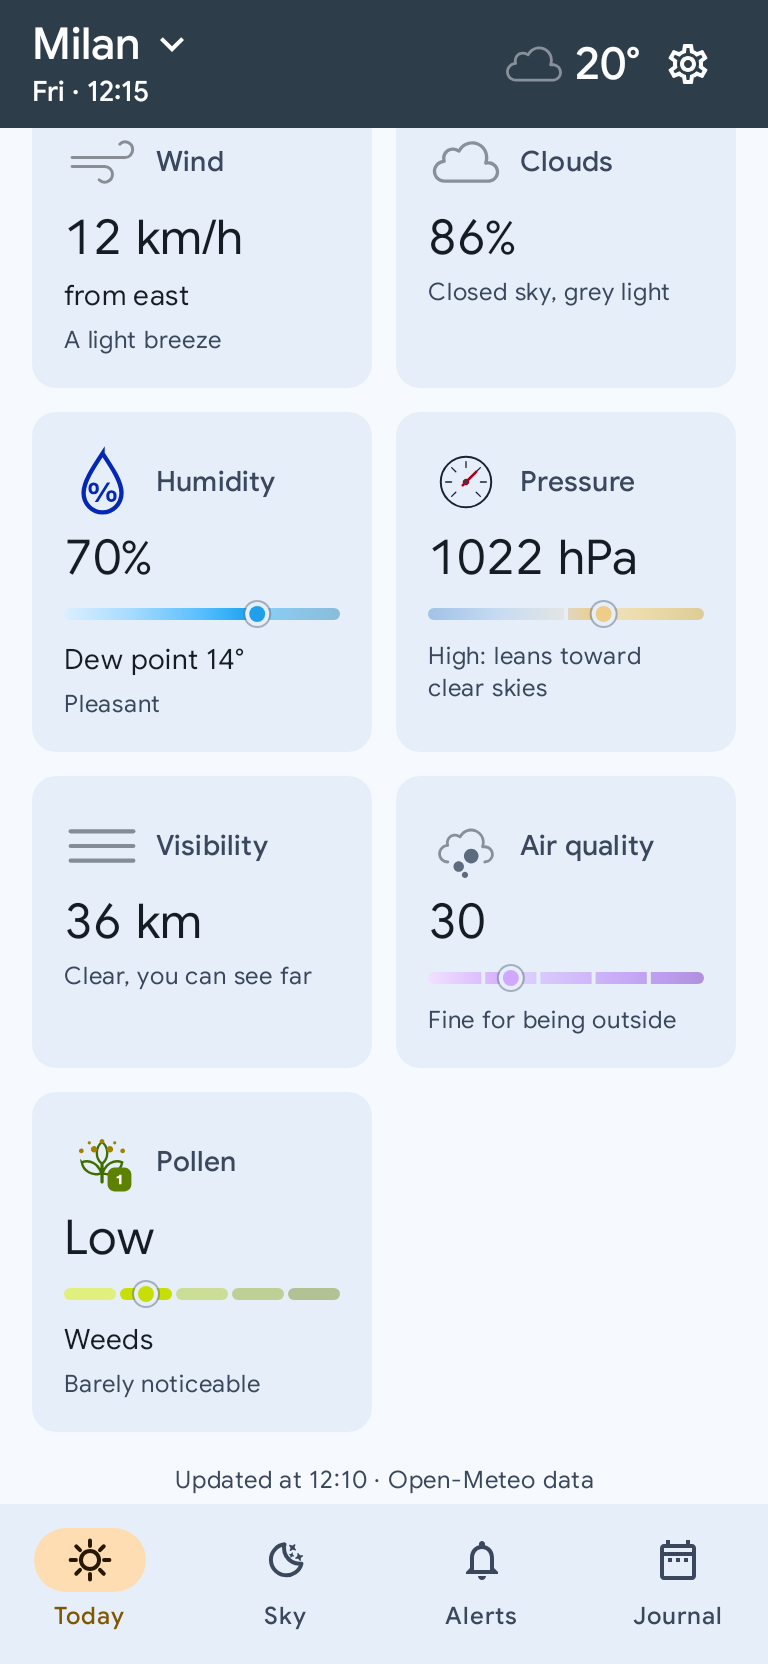
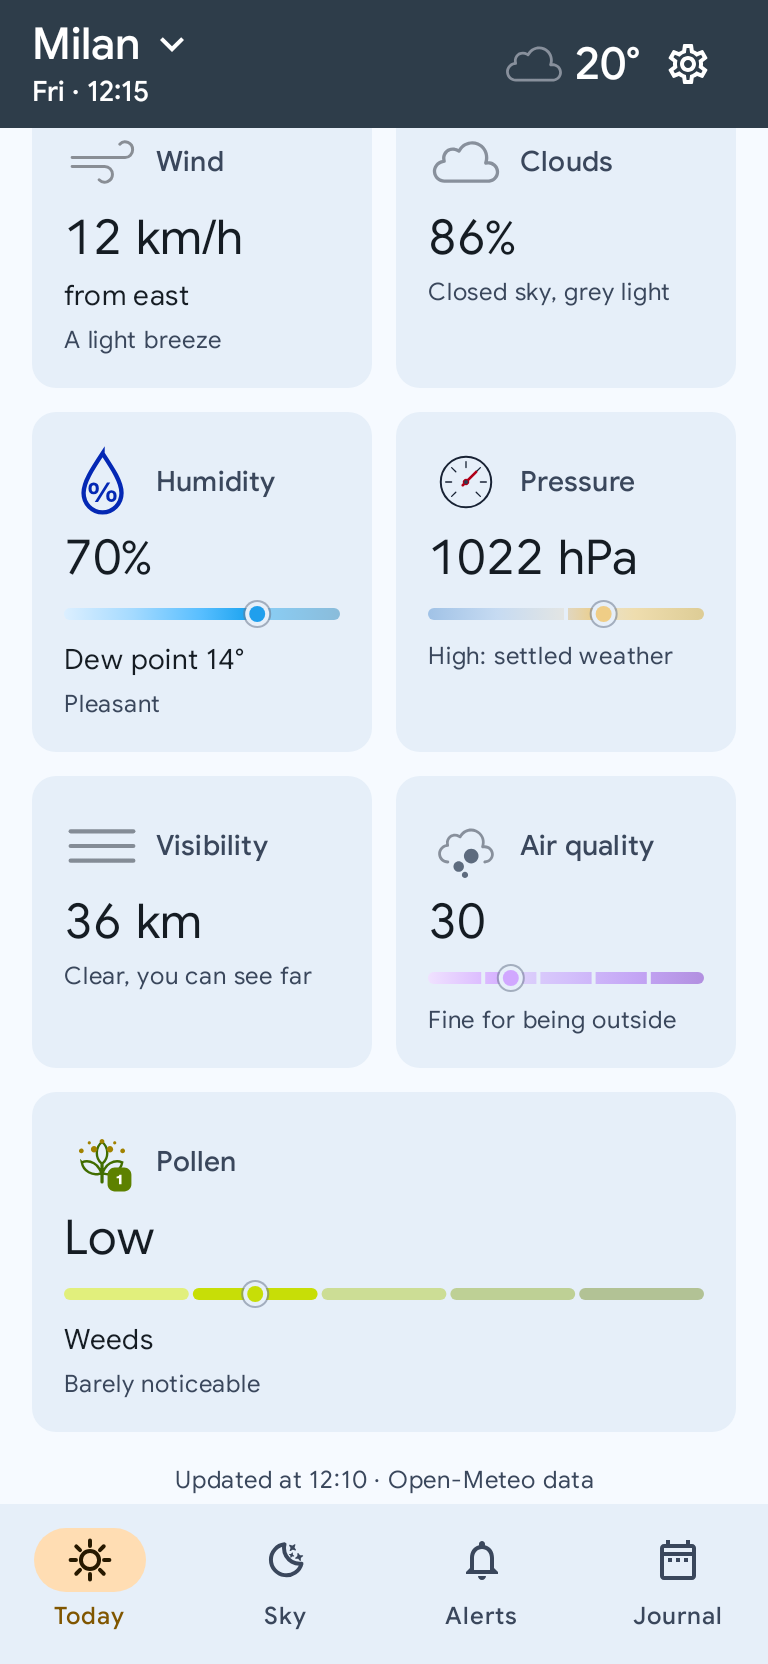
Today: pressure as a tendency, no orphan tile, no empty band
Points 7 and 8 of the review of the Today screen.

- The pressure tile reads the barometer's way: the hour we are in
  against three hours on, steady under 1.6 hPa, quick from 3.6, with
  the change as its note; a steady barometer keeps its reading's
  meaning, and «High» now says settled, not clear, which an overcast
  anticyclone contradicted.
- An odd last detail tile takes the whole row instead of sitting
  beside an empty half.
- The first title on Today's paper adds no top margin: the sheet's lip
  and the list's gap already stood the hours 53dp below the sky.
- Guide, DESIGN, PLANNING, CHANGELOG; today-now and today-details
  regenerated.

Claude-Session: https://claude.ai/code/session_01PZBB3MnXk3HDK1abFqMvrz

Changed region(s): [[0.1562, 0.75, 0.9062, 0.7812], [0.6562, 0.375, 0.875, 0.4375], [0.5625, 0.4062, 0.625, 0.4375]]

diff --git a/app/src/main/kotlin/com/callbackdev/chiaro/ui/today/TodayScreen.kt b/app/src/main/kotlin/com/callbackdev/chiaro/ui/today/TodayScreen.kt
@@ -928,7 +928,20 @@ private fun ContentState(
                 item { GuideCard(onOpen = onOpenGuide, onDismiss = onDismissGuideCard) }
             }
 
-            item { SectionTitle(stringResource(R.string.section_next_hours)) }
+            // The first title on the paper (review of 12 ott 2026): the sheet's own 24dp lip
+            // and the list's 12dp gap are already above it, and its usual 12 more made a
+            // 53dp band of empty paper between the sky and the hours, measured on the
+            // README's Milan — the hours VISION §4.4 wants above the fold, pushed down by
+            // nothing. With a chip, a banner or the guide card in between, it keeps the 12
+            // it needs to stand apart from them.
+            val opensThePaper = content.error == null && !content.isStale &&
+                content.warnings == null && guideCardVisible != true
+            item {
+                SectionTitle(
+                    stringResource(R.string.section_next_hours),
+                    top = if (opensThePaper) 0.dp else 12.dp
+                )
+            }
             item { NextHours(content, units, is24h, timeFmt, locale) }
 
             if (content.timeline.isNotEmpty()) {
@@ -1057,11 +1070,11 @@ private fun DataFooter(content: TodayUiState.Content, timeFmt: DateTimeFormatter
  * to on the screens that have no list spacing.
  */
 @Composable
-private fun SectionTitle(text: String) {
+private fun SectionTitle(text: String, top: Dp = 12.dp) {
     Text(
         text = text,
         style = MaterialTheme.typography.titleMedium,
-        modifier = Modifier.padding(start = 16.dp, top = 12.dp)
+        modifier = Modifier.padding(start = 16.dp, top = top)
     )
 }
 
@@ -2088,13 +2101,19 @@ private fun Details(content: TodayUiState.Content, units: UnitSettings, locale: 
                 )
             )
         )
+        // Where the barometer is going, when it is going somewhere (12 ott 2026): the
+        // meaning follows the tendency and the note carries its arithmetic; a steady
+        // barometer keeps the absolute reading's meaning and no note.
+        val trend = WeatherText.pressureTrend(report.hourly)
         add(
             Tile(
                 icon = { ChiaroIcons.pressure },
                 label = R.string.metric_pressure,
                 value = Formats.pressure(current.pressureMb, locale),
-                meaning = WeatherText.pressureMeaning(current.pressureMb),
-                track = pressureTrack(current.pressureMb)
+                meaning = WeatherText.pressureMeaning(current.pressureMb, trend),
+                track = pressureTrack(current.pressureMb),
+                note = trend?.takeIf { it.direction != WeatherText.PressureTrend.Direction.STEADY }
+                    ?.let { stringResource(R.string.pressure_trend_note, String.format(locale, "%+.1f", it.deltaHpa)) }
             )
         )
         // §1.1 again (Fase 26): `visibility` is a model-dependent field, and a model
@@ -2173,6 +2192,9 @@ private fun Details(content: TodayUiState.Content, units: UnitSettings, locale: 
                 horizontalArrangement = Arrangement.spacedBy(12.dp),
                 modifier = Modifier.height(IntrinsicSize.Max)
             ) {
+                // An odd tile out takes the whole row (review of 12 ott 2026): it used
+                // to sit beside an empty box, half a row of nothing at the foot of the
+                // grid, which read as a tile that had failed to load.
                 rowTiles.forEach { tile ->
                     MetricTile(
                         icon = tile.icon(),
@@ -2185,9 +2207,6 @@ private fun Details(content: TodayUiState.Content, units: UnitSettings, locale: 
                         iconSize = tile.iconSize,
                         modifier = Modifier.weight(1f).fillMaxHeight()
                     )
-                }
-                if (rowTiles.size < perRow) {
-                    Box(modifier = Modifier.weight(1f))
                 }
             }
         }

diff --git a/app/src/main/kotlin/com/callbackdev/chiaro/ui/today/WeatherText.kt b/app/src/main/kotlin/com/callbackdev/chiaro/ui/today/WeatherText.kt
@@ -6,6 +6,7 @@ import com.callbackdev.chiaro.domain.ConditionWord
 import com.callbackdev.chiaro.domain.model.AirQuality
 import com.callbackdev.chiaro.domain.model.AqiScale
 import com.callbackdev.chiaro.domain.model.CloudLayers
+import com.callbackdev.chiaro.domain.model.HourlyForecast
 import com.callbackdev.chiaro.domain.model.PollenLevel
 import com.callbackdev.chiaro.domain.model.PollenReport
 
@@ -149,6 +150,54 @@ object WeatherText {
         mb <= 1020 -> R.string.pressure_meaning_normal
         else -> R.string.pressure_meaning_high
     }
+
+    /**
+     * Which way the barometer is going (review of 12 ott 2026). The absolute value printed
+     * «Alta: tende al sereno» under a sky 86% closed: a high pressure is a slow, regional
+     * fact, and the tile was contradicting the window. The tendency is what a barometer is
+     * read for, and it is the consequence the tile owes (§1.2).
+     *
+     * Read on the forecast's own hours — the hour we are in against the one three hours
+     * on, the span the barometric tendency is defined over — because the report keeps no
+     * hour before the present: this is where the barometer is **going**, not where it has
+     * been. The bands are the marine forecasts' (WMO): under 1.6 hPa in three hours is
+     * steady, from 3.6 it is quick. Null where either hour carries no pressure, or the
+     * hour three on is missing.
+     */
+    fun pressureTrend(hours: List<HourlyForecast>): PressureTrend? {
+        val first = hours.firstOrNull() ?: return null
+        val from = first.pressureMb ?: return null
+        val later = hours.firstOrNull { java.time.Duration.between(first.at, it.at).toHours() >= TREND_HOURS }
+            ?.takeIf { java.time.Duration.between(first.at, it.at).toHours() == TREND_HOURS }
+            ?: return null
+        val to = later.pressureMb ?: return null
+        val delta = to - from
+        val direction = when {
+            delta <= -TREND_QUICK_HPA -> PressureTrend.Direction.FALLING_FAST
+            delta <= -TREND_STEADY_HPA -> PressureTrend.Direction.FALLING
+            delta >= TREND_STEADY_HPA -> PressureTrend.Direction.RISING
+            else -> PressureTrend.Direction.STEADY
+        }
+        return PressureTrend(direction, delta)
+    }
+
+    /** The barometer's way, and the change over [TREND_HOURS] that decided it. */
+    data class PressureTrend(val direction: Direction, val deltaHpa: Double) {
+        enum class Direction { FALLING_FAST, FALLING, STEADY, RISING }
+    }
+
+    /** The tile's meaning: the tendency when it moves, the absolute reading when it holds. */
+    @StringRes
+    fun pressureMeaning(mb: Double, trend: PressureTrend?): Int = when (trend?.direction) {
+        PressureTrend.Direction.FALLING_FAST -> R.string.pressure_trend_falling_fast
+        PressureTrend.Direction.FALLING -> R.string.pressure_trend_falling
+        PressureTrend.Direction.RISING -> R.string.pressure_trend_rising
+        PressureTrend.Direction.STEADY, null -> pressureMeaning(mb)
+    }
+
+    private const val TREND_HOURS = 3L
+    private const val TREND_STEADY_HPA = 1.6
+    private const val TREND_QUICK_HPA = 3.6
 
     @StringRes
     fun visibilityMeaning(km: Double): Int = when {

diff --git a/app/src/test/kotlin/com/callbackdev/chiaro/ui/today/PressureTrendTest.kt b/app/src/test/kotlin/com/callbackdev/chiaro/ui/today/PressureTrendTest.kt
@@ -1,0 +1,60 @@
+package com.callbackdev.chiaro.ui.today
+
+import com.callbackdev.chiaro.R
+import com.callbackdev.chiaro.domain.model.HourlyForecast
+import com.callbackdev.chiaro.domain.model.WeatherCondition
+import com.callbackdev.chiaro.ui.today.WeatherText.PressureTrend.Direction
+import java.time.LocalDateTime
+import java.time.ZoneId
+import org.junit.Assert.assertEquals
+import org.junit.Assert.assertNull
+import org.junit.Test
+
+/**
+ * The pressure tile's tendency (review of 12 ott 2026): the hour we are in against the
+ * one three hours on, on the marine forecasts' bands.
+ */
+class PressureTrendTest {
+
+    private val zone = ZoneId.of("Europe/Rome")
+    private val start = LocalDateTime.of(2026, 9, 25, 12, 0)
+
+    private fun hours(vararg hpa: Double?) = hpa.mapIndexed { i, p ->
+        val time = start.plusHours(i.toLong())
+        HourlyForecast(
+            time = time,
+            at = time.atZone(zone).toInstant(),
+            tempC = 20.0,
+            condition = WeatherCondition(3),
+            precipChancePct = 0,
+            cloudCoverPct = 86,
+            pressureMb = p
+        )
+    }
+
+    @Test
+    fun `the bands`() {
+        assertEquals(Direction.STEADY, WeatherText.pressureTrend(hours(1022.0, 1022.0, 1021.6, 1020.7))!!.direction)
+        assertEquals(Direction.FALLING, WeatherText.pressureTrend(hours(1012.0, 0.0, 0.0, 1010.0))!!.direction)
+        assertEquals(Direction.FALLING_FAST, WeatherText.pressureTrend(hours(1008.0, 0.0, 0.0, 1004.0))!!.direction)
+        assertEquals(Direction.RISING, WeatherText.pressureTrend(hours(1004.0, 0.0, 0.0, 1006.5))!!.direction)
+        assertEquals(-4.0, WeatherText.pressureTrend(hours(1008.0, 0.0, 0.0, 1004.0))!!.deltaHpa, 1e-9)
+    }
+
+    @Test
+    fun `no pressure or no hour three on is no tendency`() {
+        assertNull(WeatherText.pressureTrend(hours(null, 1.0, 1.0, 1010.0)))
+        assertNull(WeatherText.pressureTrend(hours(1010.0, 1.0, 1.0, null)))
+        assertNull(WeatherText.pressureTrend(hours(1010.0, 1010.0)))
+        assertNull(WeatherText.pressureTrend(emptyList()))
+    }
+
+    @Test
+    fun `a moving barometer speaks its way, a steady one its reading`() {
+        val falling = WeatherText.PressureTrend(Direction.FALLING, -2.0)
+        assertEquals(R.string.pressure_trend_falling, WeatherText.pressureMeaning(1025.0, falling))
+        val steady = WeatherText.PressureTrend(Direction.STEADY, -1.3)
+        assertEquals(R.string.pressure_meaning_high, WeatherText.pressureMeaning(1025.0, steady))
+        assertEquals(R.string.pressure_meaning_low, WeatherText.pressureMeaning(995.0, null))
+    }
+}

diff --git a/PLANNING.md b/PLANNING.md
@@ -11839,3 +11839,44 @@ li avevo rinumerati male; il committente ha chiesto «5 e 6» e si è seguita la
 - `TodayStateBuilderTest` (+1): l'ora d'oro finisce al tramonto della stessa agenda, l'ora blu
   finisce dopo l'inizio, il tramonto non ha fine.
 - `./gradlew test :app:testDebugUnitTest :app:lintDebug :app:assembleDebug`.
+
+## Oggi: la pressione che va da qualche parte, la griglia senza buchi, la fascia vuota (committente, 12-13 ott 2026)
+
+Punti 7 e 8 della revisione di Oggi. Il 7: la griglia dei dettagli era disomogenea (i pollini
+da soli su mezza riga, accanto al vuoto) e la pressione stampava «Alta: tende al sereno» sotto
+un cielo coperto all'86%. L'8: fra il bordo del foglio e «Prossime ore» c'erano 53dp di carta
+vuota, misurati sullo screenshot del README.
+
+### Cosa è cambiato
+
+- **La pressione come tendenza** (`WeatherText.pressureTrend`): l'ora in corso contro quella tre
+  ore dopo, sulle bande dei bollettini marini (sotto 1,6 hPa in 3 ore stabile, da 3,6 rapida).
+  In calo, in rapido calo, in aumento: la riga di significato è la tendenza e la nota è il suo
+  conto («−2,4 hPa nelle prossime 3 ore»). Stabile: resta il significato della lettura.
+- **«Alta» dice *stabile*, non *sereno***: l'alta pressione è tempo stabile, e un anticiclone
+  d'autunno è spesso grigio — era la contraddizione con la finestra. EN «settled weather».
+- **La tessera spaiata prende tutta la riga** invece di stare accanto a un riquadro vuoto.
+- **Il primo titolo sul foglio non aggiunge margine**: il bordo del foglio (24dp) e lo spazio
+  della lista (12dp) bastano. Da 53 a circa 42dp fra il bordo e il testo. Con il chip della
+  freschezza, un'allerta o la carta della guida in mezzo, il titolo tiene i suoi 12dp.
+- La guida: «pressione e dove sta andando». DESIGN §8.6 e la spaziatura delle intestazioni,
+  CHANGELOG; `today-now` e `today-details` rigenerati e guardati.
+
+### Decisioni e deviazioni
+
+- **Tendenza in avanti, non all'indietro.** La tendenza barometrica classica guarda le tre ore
+  passate; il report non ne tiene nessuna (il mapper parte dall'ora corrente), quindi si legge
+  dove il barometro *sta andando* secondo il modello. È scritto così anche nel commento.
+- **La tessera delle nuvole resta.** La revisione proponeva di toglierla dove il cielo in alto
+  la dice già; ma la tessera dice anche lo strato (un 90% di velo alto lascia passare il sole,
+  un 90% basso no), che il cielo in alto non dice.
+- Sul Milano del README la pressione cala di 1,3 hPa in 3 ore: per le bande è stabile, e la
+  tessera dice «Alta: tempo stabile». Nessuna tendenza inventata sotto la soglia.
+
+### Come è stato verificato
+
+- `PressureTrendTest` (3, nuovo): le quattro bande e il conto; niente tendenza senza la
+  pressione o senza l'ora tre dopo; la tendenza vince sulla lettura, la stabilità no.
+- Screenshot rigenerati: la tessera dei pollini su tutta la riga, «High: settled weather»,
+  «Next hours» più vicino al cielo.
+- `./gradlew test :app:testDebugUnitTest :app:lintDebug :app:assembleDebug`.

diff --git a/DESIGN.md b/DESIGN.md
@@ -929,6 +929,10 @@ and the neighbour is not the same everywhere:
   and 4 + 8 the 12dp below;
 - Today's list spaces its own items by 12dp, so its header asks for 12 rather than 16 and
   arrives at the same 24 / 12;
+- the **first** header on Today's paper, «Prossime ore» right under the sky, asks for 0
+  (review of 12 ott 2026): the sheet's 24dp lip and the list's 12 are already above it, and
+  with its own 12 the sky and the hours stood 53dp of empty paper apart. With the freshness
+  chip, a warning banner or the guide card between them it keeps its 12;
 - next to a Material `ListItem` — the Sky moments, the Alerts switches and rule cards, the
   Settings rows — the gap is Material's, not ours: `ListItem` brings its own padding and a
   minimum height that centres its text, so the air under a header there is at least 12dp
@@ -1291,7 +1295,11 @@ full strength, the thresholds the meaning line switches at cut into it as 2dp ga
 surface gap), and a **12dp disc on the value** — the ramp's color there, a ring of the
 tile's ground, a hairline of `outline` so the pale end of a ramp still has an edge. UV on
 0–11 with the WHO's bands, humidity on 0–100 in water's ramp, air on 0–300 with the US
-bands, **pressure** on 980–1046 hPa diverging from 1013 (filled from the middle out), and
+bands, **pressure** on 980–1046 hPa diverging from 1013 (filled from the middle out; its
+meaning line is the **tendency** since 12 ott 2026 — the hour we are in against three hours
+on, steady under 1.6 hPa, quick from 3.6, the marine forecasts' bands — with the change as
+its note, «−2,4 hPa nelle prossime 3 ore», and the reading's own meaning only while it holds;
+«Alta» now says *settled*, not *clear*, which an overcast anticyclone contradicted), and
 **pollen** as four steps with the level and those under it lit. It replaced one `primary`
 bar under every metric, which said "how much" without saying "of what". Visibility (a
 logarithmic quantity) and the wind (whose meaning is the gust) get none;
@@ -1299,7 +1307,8 @@ then the **facts behind the value** in `bodyMedium` — where the wind comes fro
 with an arrow for where it goes, the gusts on the days they matter, the dew point under
 the humidity, which pollen — and last the meaning line (`bodySmall`, `onSurfaceVariant`).
 Never ships without the meaning line (§1.2). Tapping opens the details sheet at that
-metric. Two tiles became one that day: the dew point said "pleasant" under the
+metric. An odd tile out at the foot of the two columns **takes the whole row** (12 ott 2026), where
+it sat beside half a row of nothing. Two tiles became one that day: the dew point said "pleasant" under the
 humidity's "comfortable", the same fact in two cards, and the dew point is the better
 predictor of how the air feels, so it writes the humidity tile's meaning and stays on it
 as a note. The air index lost its acronym — "AQI" was the one piece of jargon on a

diff --git a/CHANGELOG.md b/CHANGELOG.md
@@ -31,6 +31,10 @@ sections are a normal size and live here alone.
 - **An open day starts at dawn**, not at midnight.
 - **The rest of the day**: the golden and blue hours say when they end, and the countdown goes
   to the first event that is not the moon's.
+- **Pressure says which way it is going**: rising, falling or falling fast over the next three
+  hours, with the change in hPa; a steady barometer keeps its reading's meaning.
+- **Details**: an odd last tile takes the whole row, and the empty band between the sky and
+  the next hours is gone.
 
 ## [1.1.0] - 2026-10-01
 
